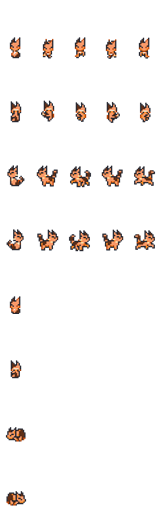
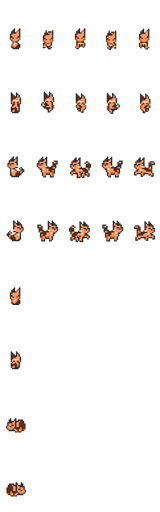
Pet Object

diff --git a/GS/src/World.cpp b/GS/src/World.cpp
@@ -7,6 +7,7 @@
 #include "Glob.h"
 #include "ChairEntity.h"
 #include "DoorEntity.h"
+#include "PetEntity.h"
 
 World::World(sf::RenderWindow& window)
 	: mWindow(window)
@@ -62,6 +63,7 @@ void World::loadTextures()
 	mTextures.load(Textures::TestTileset, "res/TestTileset.png");
 	mTextures.load(Textures::ManOveralls, "res/man01.png");
 	mTextures.load(Textures::AutoDoors, "res/doors02.png");
+	mTextures.load(Textures::Kitty, "res/feline_01.png");
 	mTileLoader.loadFromFile(Config::TILEMAP_FILENAME);
 }
 
@@ -314,6 +316,10 @@ void World::buildScene()
 	std::unique_ptr<Player> player(new Player(mTextures, this));
 	mPlayer = player.get();
 	mSceneLayers[Entity]->attachChild(std::move(player));
+
+	/* Add the pet */
+	std::unique_ptr<PetEntity> pet(new PetEntity(mTextures, this));
+	mSceneLayers[Entity]->attachChild(std::move(pet));
 
 	/* Initialize the chairs */
 	buildProps();

diff --git a/GS/src/PetEntity.cpp b/GS/src/PetEntity.cpp
@@ -1,0 +1,23 @@
+
+#include "PetEntity.h"
+#include "World.h"
+
+PetEntity::PetEntity(const TextureManager& textures, World* world)
+	: ActorEntity(world)
+{
+	initalize(textures);
+}
+
+void PetEntity::initalize(const TextureManager& textures)
+{
+	mSprite.setTextureRect(sf::IntRect(Config::Pet::SPRITE_ANIM_OFFSET, Config::Pet::SPRITE_ANIM_FRAME_SIZE));
+	mSprite.setTexture(textures.get(Textures::Kitty));
+	mSprite.setScale(mWorld->getWorldScale());
+	setTilePosition(Config::Pet::SPAWN_POSITION);
+	setSpeed(2.f);
+	setDirection(Direction::South);
+
+}
+
+
+

diff --git a/GS/src/Glob.h b/GS/src/Glob.h
@@ -215,6 +215,14 @@ namespace Config
 		// The size of each frame
 		const sf::Vector2i					SPRITE_ANIM_FRAME_SIZE(32.f, 64.f);
 	};
+
+	namespace Pet
+	{
+		const TilePosition					SPAWN_POSITION = TilePosition(8,8);
+		const sf::Vector2i					SPRITE_ANIM_OFFSET(0.f,0.f);
+		const sf::Vector2i					SPRITE_ANIM_FRAME_SIZE(32.f, 64.f);
+
+	}
 	
 }
 

diff --git a/GS/src/PetEntity.h b/GS/src/PetEntity.h
@@ -1,0 +1,20 @@
+#ifndef PETENTITY_H
+#define PETENTITY_H
+
+#pragma once
+
+#include "ActorEntity.h"
+
+class World;
+
+class PetEntity :
+	public ActorEntity
+{
+public:
+	PetEntity(const TextureManager& textures, World* world);
+
+private:
+	void initalize(const TextureManager& t);
+};
+
+#endif

diff --git a/GS/src/ResourceIdentifiers.h b/GS/src/ResourceIdentifiers.h
@@ -27,6 +27,7 @@ namespace Textures
 		WomanMidage01,
 		WomanOld01,
 		ManYoung01,
+		Kitty,
 	};
 
 }	
